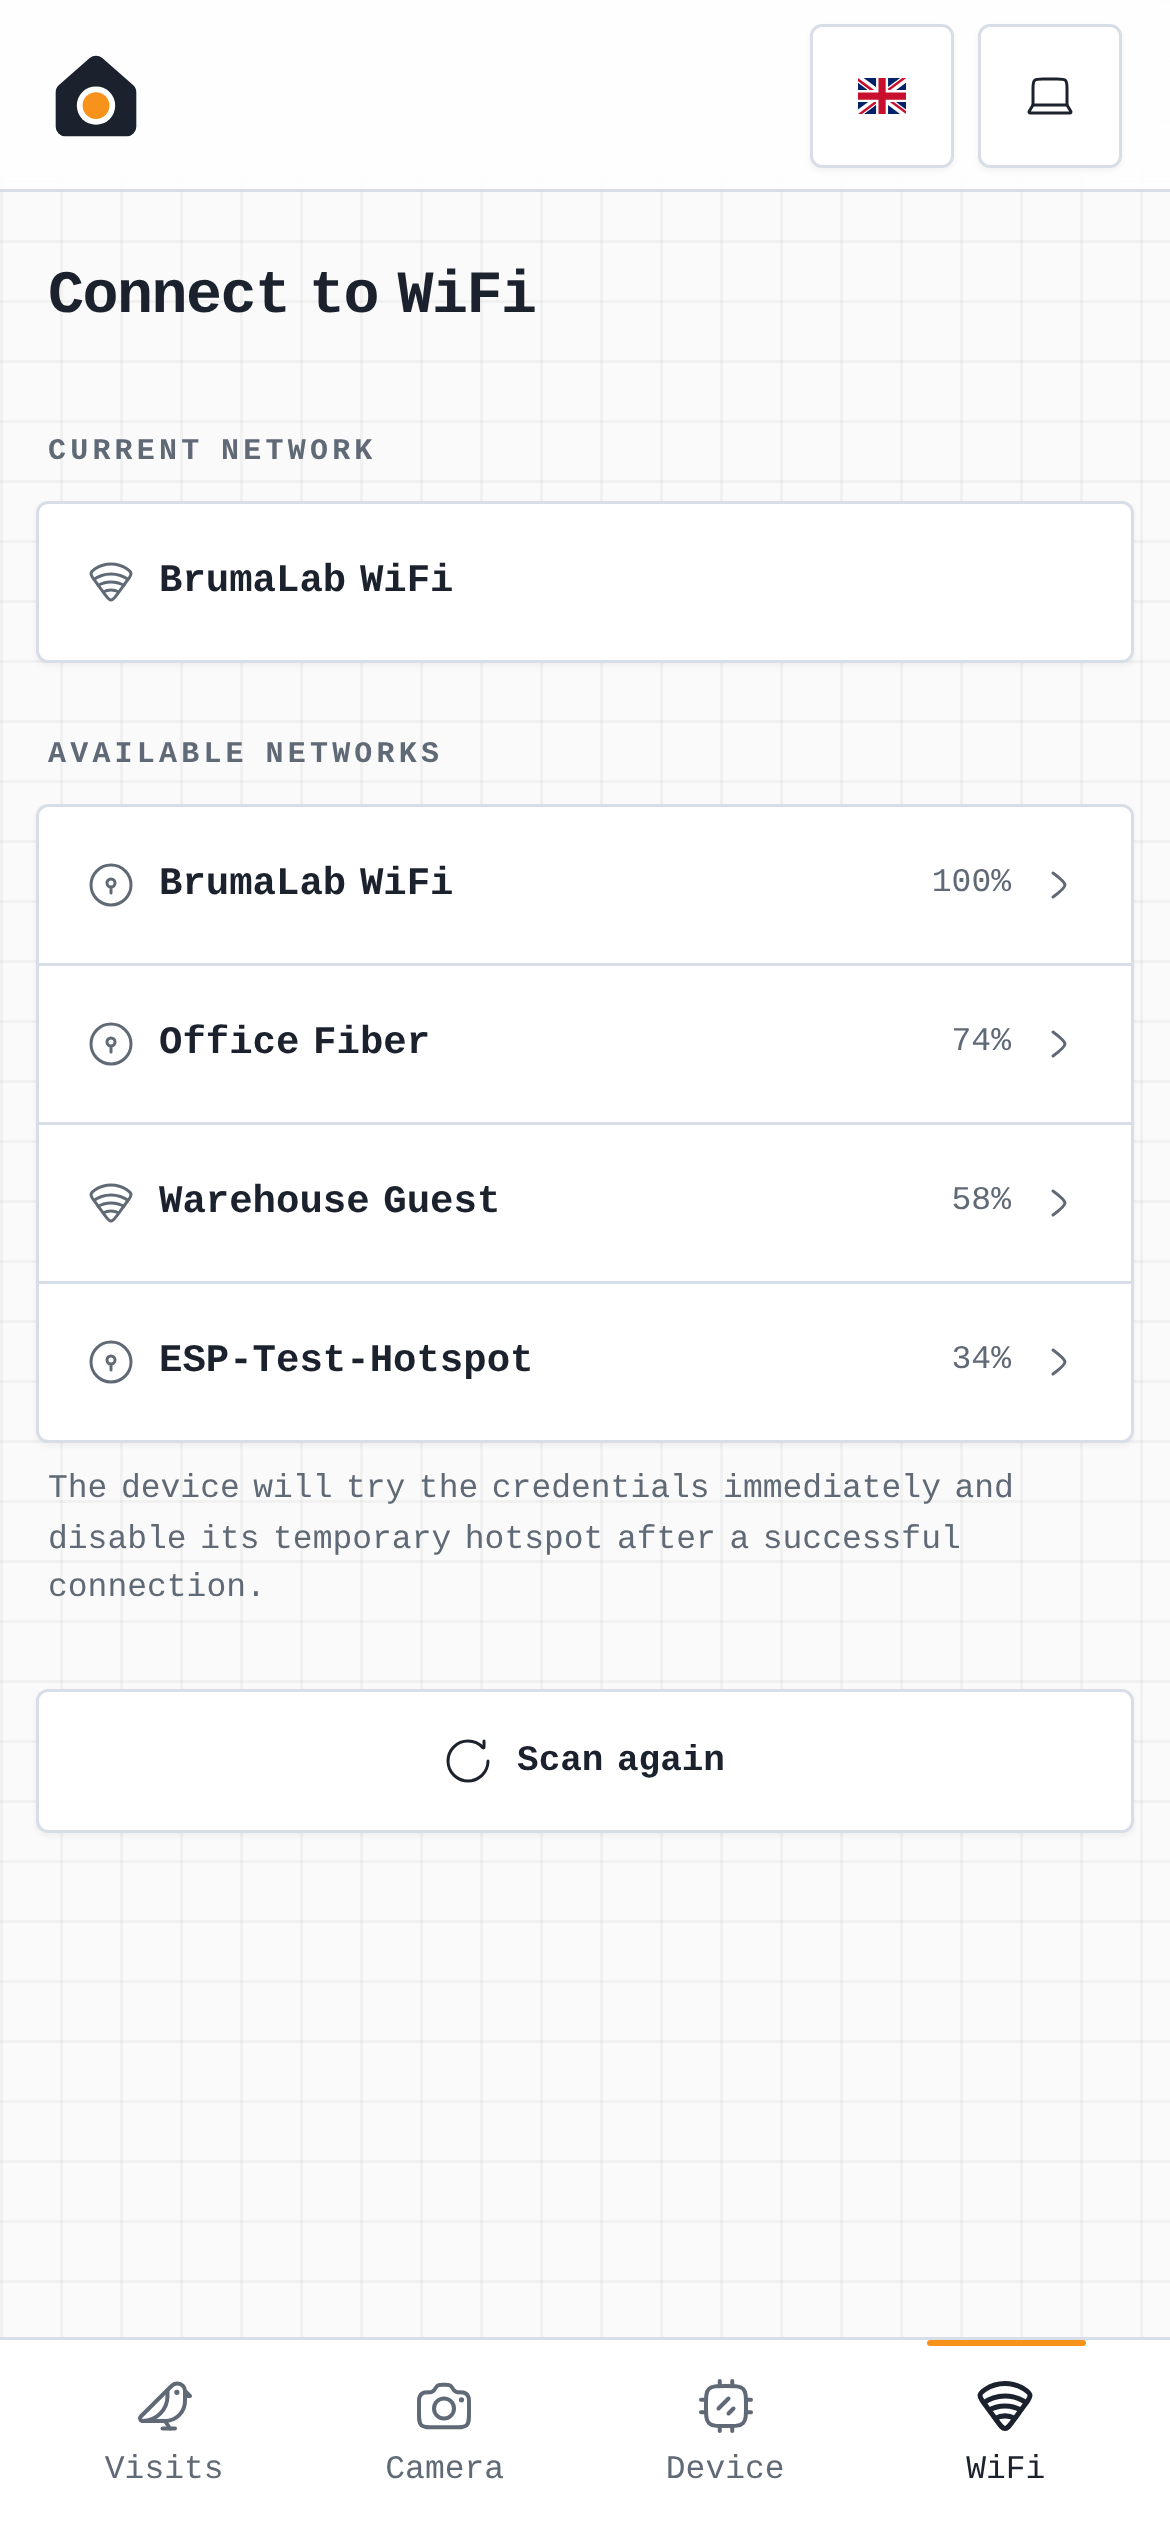
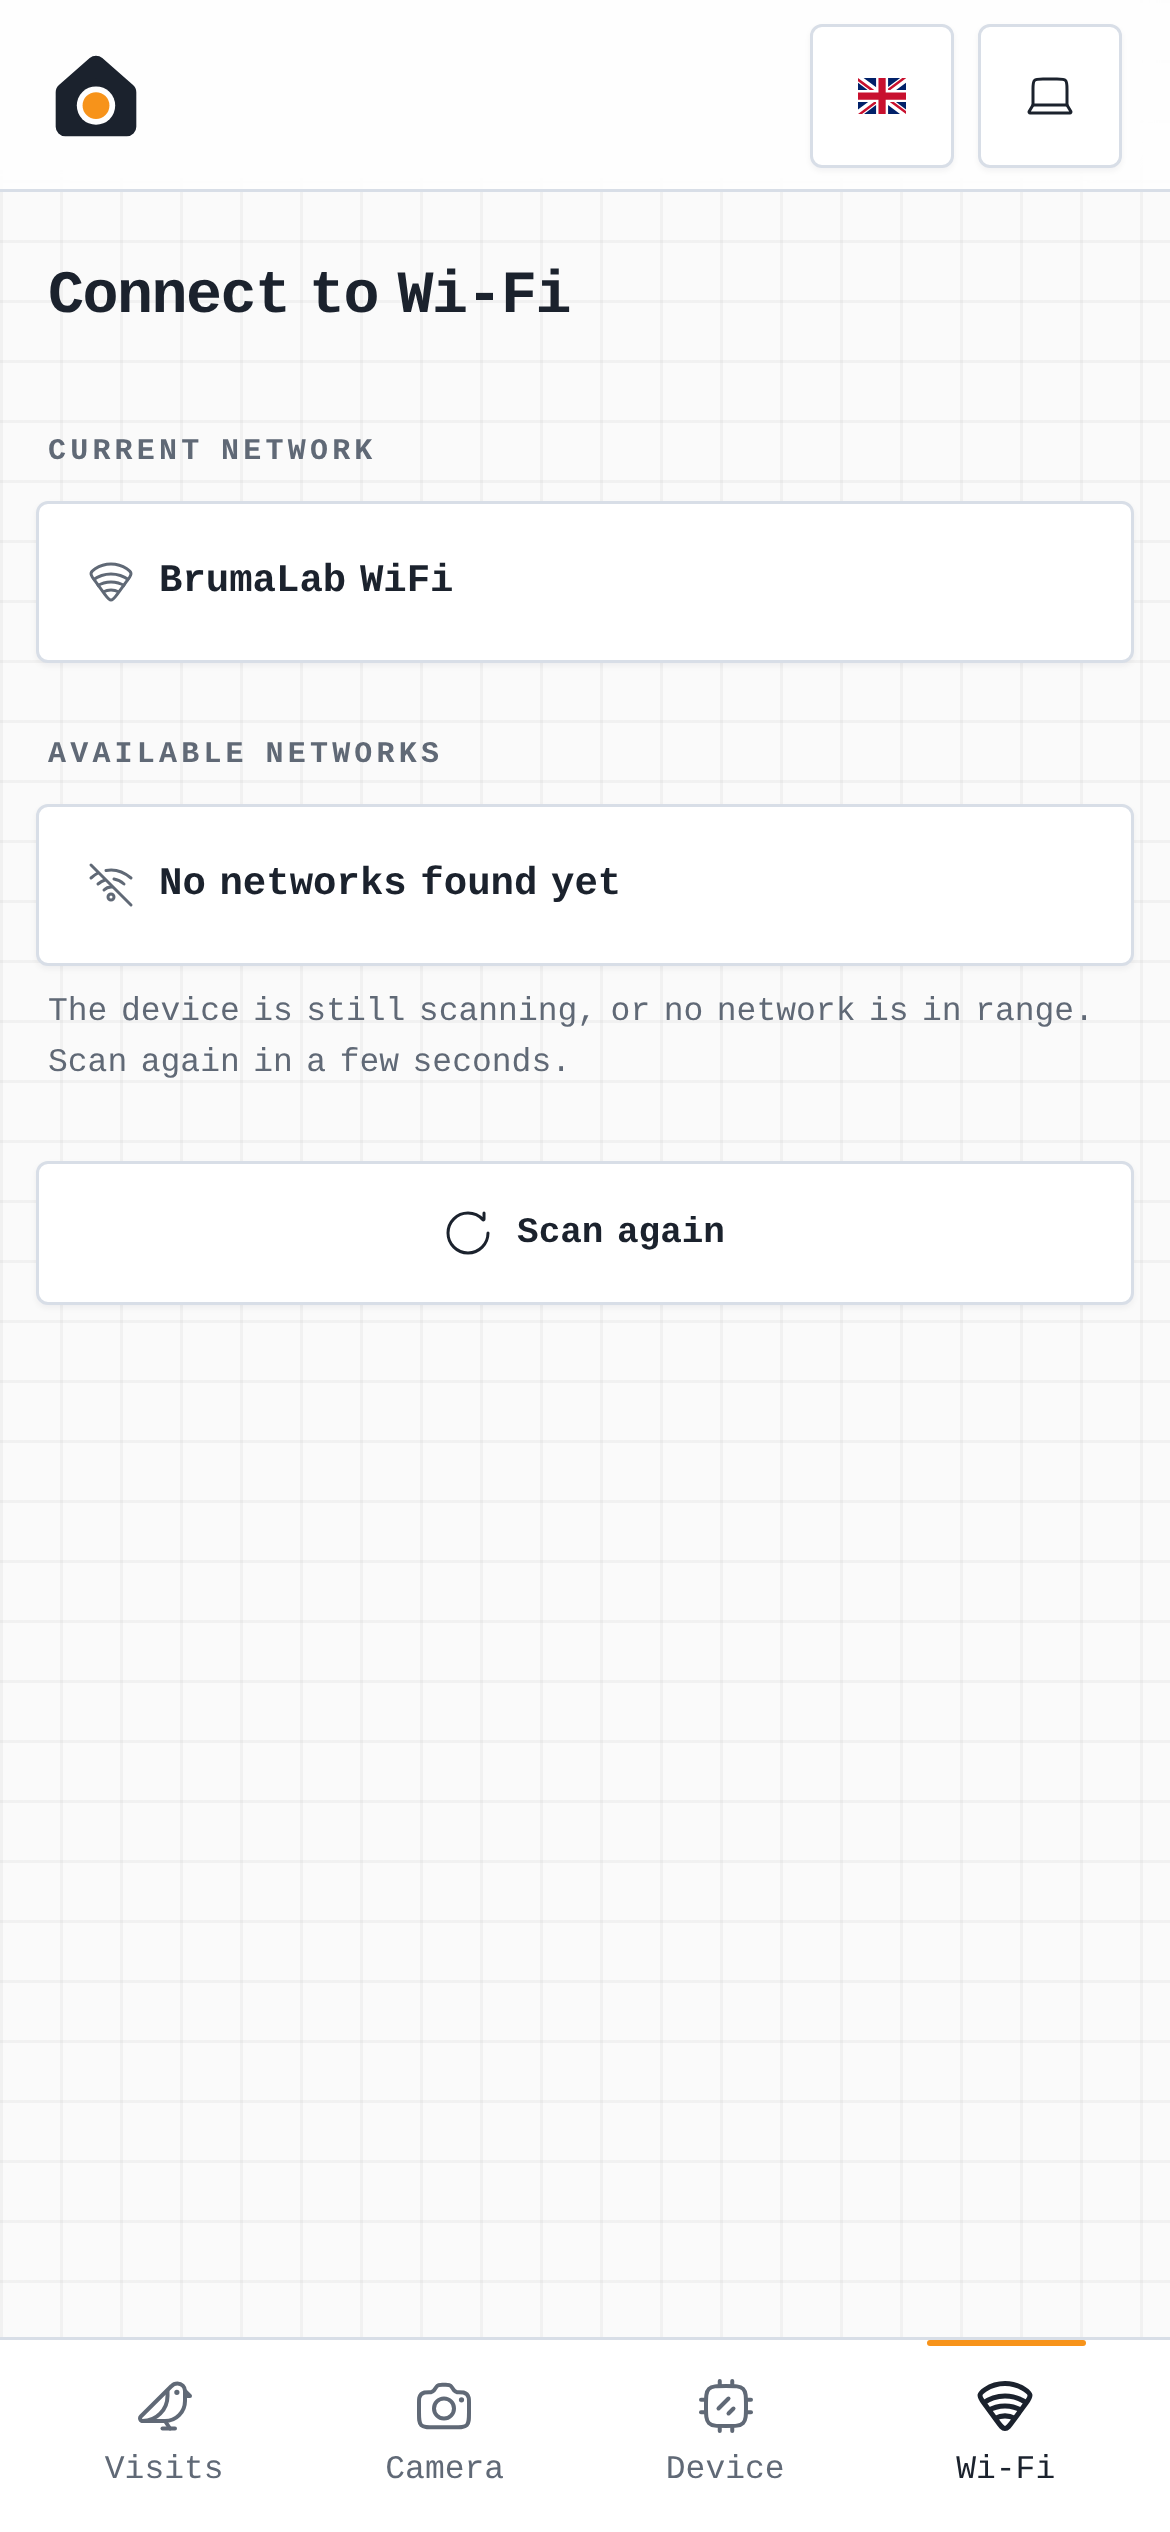
gizmo-common v2.7.1, and the Quick Start of a released gadget
- The firmware and the web app move to the v2.7.1 tag (Wi-Fi on the tab and on the setup page). The layer test expects the new label, and the README screenshots are taken again with it, the Wi-Fi one in the same state as the other gadgets'.
- README: now that the birdhouse is released, the Quick Start has the easy, no-code option (flash from opengizmo.dev) and the more technical one, like the other gadgets, and the API section is called Birdhouse API.

Claude-Session: https://claude.ai/code/session_01Beyeb1UTbsKX3cY6XDuz3W

diff --git a/webapp/tests/app/layerPages.test.js b/webapp/tests/app/layerPages.test.js
@@ -25,7 +25,7 @@ describe('pages of the layer', () => {
             ['visits', 'Visits', '/visits'],
             ['camera', 'Camera', '/camera'],
             ['device', 'Device', '/device'],
-            ['wifi', 'WiFi', '/wifi']
+            ['wifi', 'Wi-Fi', '/wifi']
         ]);
     });
 

diff --git a/README.md b/README.md
@@ -124,12 +124,31 @@ Gizmo Birdhouse is built around four cooperating parts:
 <a id="quick-start"></a>
 ## 🚀 Quick Start
 
-### 📋 What you need
+### 🚀 Easy, no-code option
 
-- An **AI Thinker ESP32-CAM** with its **ESP32-CAM-MB** USB board.
-- A **microSD card** formatted as FAT32 (up to 32 GB: bigger cards come as exFAT, which the ESP32 can't read).
+Use this path if you just want to flash the prebuilt firmware from the website. You do not need VS Code, PlatformIO, or a local build step.
 
-### 🛠 Build and flash
+1. **Put a microSD card in the ESP32-CAM, plug the ESP32-CAM into its ESP32-CAM-MB USB board, and connect it to an available USB port on your PC.**
+
+	Format the card as FAT32, up to 32 GB: bigger cards come as exFAT, which the ESP32 can't read. The MB board is the small USB adapter the ESP32-CAM sits on: the ESP32-CAM has no USB port of its own.
+
+2. **Open the [Gizmo Birdhouse](https://opengizmo.dev/projects/gizmo-birdhouse) project page.**
+
+3. **Scroll down until you reach the firmware flashing card.**
+
+4. **Press the "Flash firmware" button in the card to start the upload.**
+
+	If the flasher can't connect, hold the **IO0** button of the MB board, press and release **RST**, then release **IO0** and try again: this puts the ESP32 in flashing mode by hand.
+
+5. **Wait until the flashing process completes, then press RST on the MB board.**
+
+6. **Join the `Gizmo-Birdhouse` Wi-Fi network with your phone, and pick your Wi-Fi in the page that opens.**
+
+7. **Enjoy your Gizmo Birdhouse at [gizmo-birdhouse.local](http://gizmo-birdhouse.local)!**
+
+### 🛠 More technical option
+
+If you want to build and flash everything yourself, follow this path:
 
 1. **Install Visual Studio Code and PlatformIO.**
 
@@ -148,7 +167,7 @@ Gizmo Birdhouse is built around four cooperating parts:
 
 3. **Build and upload the firmware.**
 
-	Put the ESP32-CAM on its MB board, connect it over USB, and from `microcontroller/` run:
+	Put the microSD card in the ESP32-CAM and the ESP32-CAM on its MB board, connect it over USB, and from `microcontroller/` run:
 
 	```bash
 	pio run --target upload
@@ -305,7 +324,7 @@ Set from the **Camera** tab, or with `POST /api/settings` (every field optional)
 
 **Reset saved settings** (`POST /api/reset-settings`) clears them and the Wi-Fi, then restarts into the setup hotspot. The visits stay on the card.
 
-### API
+### Birdhouse API
 
 The birdhouse answers on `http://gizmo-birdhouse.local` (or its IP address) on your network:
 

diff --git a/CHANGELOG.md b/CHANGELOG.md
@@ -4,6 +4,8 @@ What changed in each release. New notes go under **Unreleased** while the work i
 
 ## Unreleased
 
+- gizmo-common v2.7.1: the web app writes "Wi-Fi" instead of "WiFi", on the tab and on the Wi-Fi setup page. Flash the new firmware to get it.
+
 ## v1.0.0 - 2026-11-24
 
 The first version of Gizmo Birdhouse: an AI Thinker ESP32-CAM in a birdhouse that photographs the birds that come to visit.
